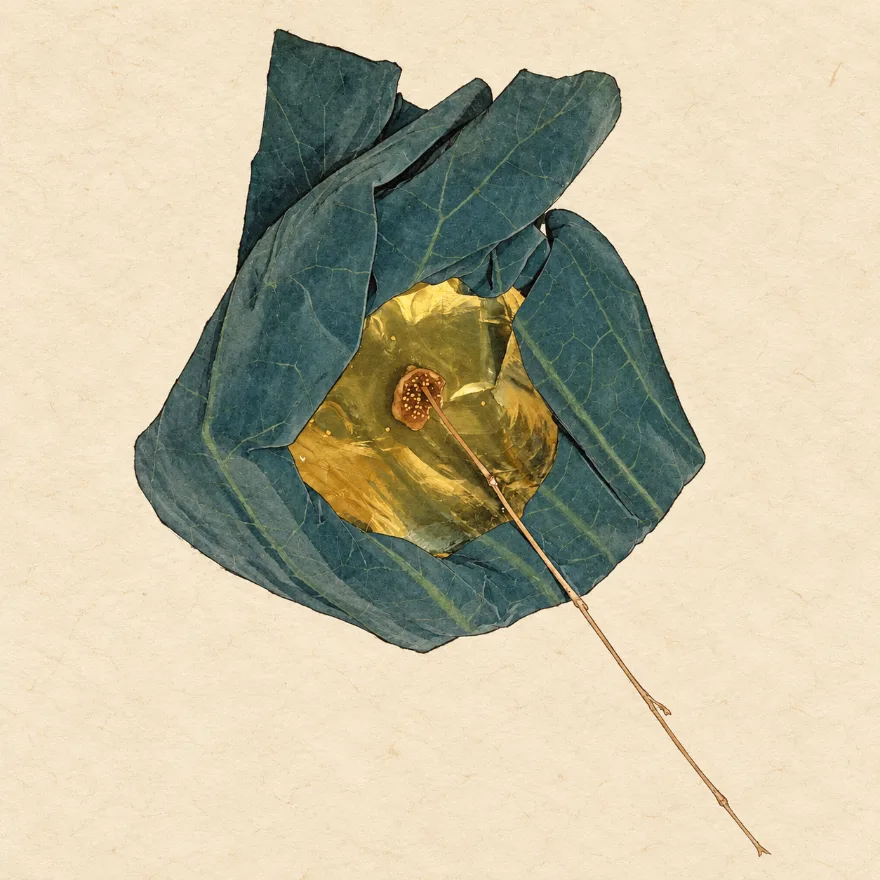
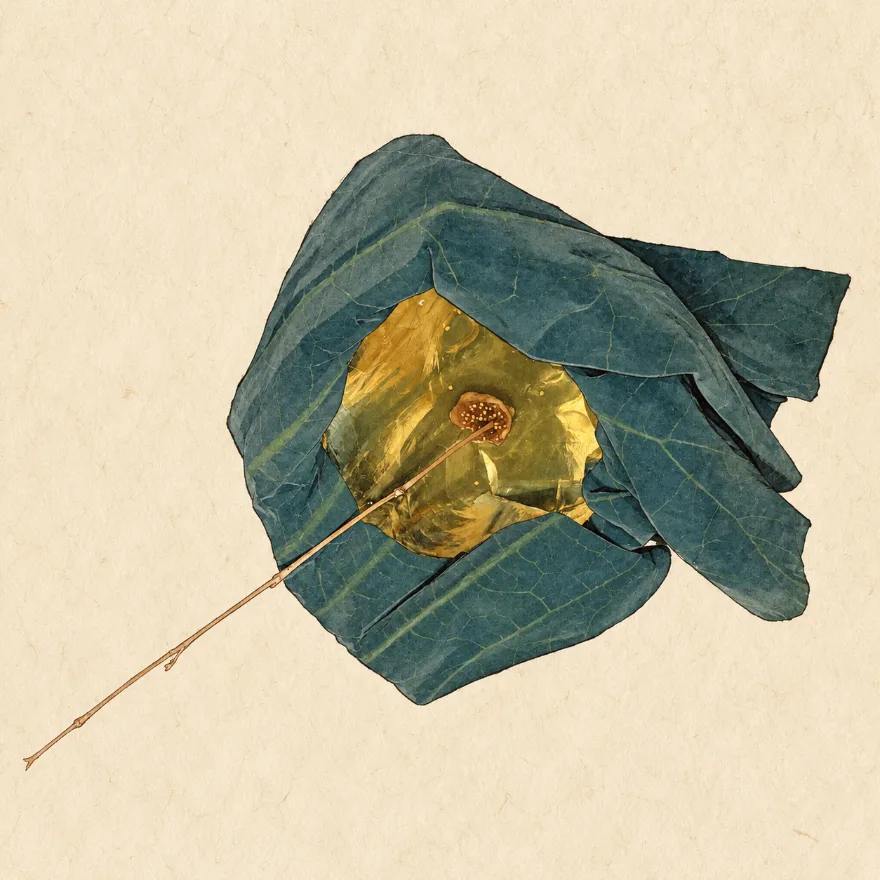
크리켓 메뉴: 칵테일 Boksunga Crush 추가(그림·4개국어), 과하주 그림 90도 회전

diff --git a/public/cricket/index.html b/public/cricket/index.html
@@ -783,6 +783,7 @@ const COCKTAILS=[
  {name:"Ube Alexander",tw:"Brandy Alexander twist",desc:"고구마 소주, 우베 막걸리, 스모키 솔트, 라임",link:null},
  {name:"Sujeonggwa",tw:"",desc:"문배술, 수제 수정과, 감 셔벗, 수수 뻥튀기",link:"moonbaesool"},
  {name:"Yakjutini",tw:"Reverse Martini twist",desc:"약주, 한국 화이트와인, 한국 진, 제철 장아찌",link:"yakju"},
+ {name:"Boksunga Crush",tw:"",desc:"복분자 스피릿, 복숭아 봉봉, 망고, 한국 복숭아 리큐르",link:null},
 ];
 const FOODS=[
  {name:"Namul Jeon",p:"23,000",desc:"나물과 오징어·새우로 부친 한국식 전"},
@@ -938,8 +939,8 @@ function renderFoods(){
 
 /* ===== 메뉴 그림 뷰어 (실제 사진을 동양화로 옮긴 그림) =====
    dish/<id>.webp(큰 그림) · dish/<id>_t.webp(목록 썸네일). 그림이 있는 메뉴만 DISH에 등록. */
-const DISH=new Set(["andong-mule","nokcha-gin-tonic","hyunmi-and-corn","maesil-and-cucumber","gwahaju-on-the-lotus-leaf","yin-and-yang","tomato-and-spicy","mushroom-and-coffee","ube-alexander","sujeonggwa","yakjutini","namul-jeon","acorn-rabokki","golbengi-somyeon","bekhap-sujebi","kimchi-gambas","mu-jorim","dombegogi","mungtigi","makgeolli-bingsu"]);
-const DISH_BG={"andong-mule":"#f7e7cb","acorn-rabokki":"#f2e0c4","bekhap-sujebi":"#ebd1ab","dombegogi":"#f3ddb9","golbengi-somyeon":"#f6ead4","gwahaju-on-the-lotus-leaf":"#f3e2c7","hyunmi-and-corn":"#eecea4","kimchi-gambas":"#f3deb9","maesil-and-cucumber":"#f1ddc0","makgeolli-bingsu":"#f6e3c5","mu-jorim":"#f3ddbc","mungtigi":"#f4ddb5","mushroom-and-coffee":"#f2ddbc","namul-jeon":"#eed9b8","nokcha-gin-tonic":"#f3ddba","sujeonggwa":"#f1dfc1","tomato-and-spicy":"#f6e5c8","ube-alexander":"#f7e3c4","yakjutini":"#f4ddb8","yin-and-yang":"#f2e1c1"};   // 그림별 한지 바탕색(자동 추출)
+const DISH=new Set(["andong-mule","nokcha-gin-tonic","hyunmi-and-corn","maesil-and-cucumber","gwahaju-on-the-lotus-leaf","yin-and-yang","tomato-and-spicy","mushroom-and-coffee","ube-alexander","sujeonggwa","yakjutini","boksunga-crush","namul-jeon","acorn-rabokki","golbengi-somyeon","bekhap-sujebi","kimchi-gambas","mu-jorim","dombegogi","mungtigi","makgeolli-bingsu"]);
+const DISH_BG={"andong-mule":"#f7e7cb","acorn-rabokki":"#f2e0c4","bekhap-sujebi":"#ebd1ab","boksunga-crush":"#f1ddbb","dombegogi":"#f3ddb9","golbengi-somyeon":"#f6ead4","gwahaju-on-the-lotus-leaf":"#f3e2c7","hyunmi-and-corn":"#eecea4","kimchi-gambas":"#f3deb9","maesil-and-cucumber":"#f1ddc0","makgeolli-bingsu":"#f6e3c5","mu-jorim":"#f3ddbc","mungtigi":"#f4ddb5","mushroom-and-coffee":"#f2ddbc","namul-jeon":"#eed9b8","nokcha-gin-tonic":"#f3ddba","sujeonggwa":"#f1dfc1","tomato-and-spicy":"#f6e5c8","ube-alexander":"#f7e3c4","yakjutini":"#f4ddb8","yin-and-yang":"#f2e1c1"};   // 그림별 한지 바탕색(자동 추출)
 function dishId(n){return String(n).toLowerCase().replace(/\s*&\s*/g,"-and-").replace(/\s+/g,"-");}
 function dishAttr(n){const id=dishId(n);return DISH.has(id)?`class="item-c has-dish" onclick="openDish('${id}',event)"`:`class="item-c no-dish"`;}
 function dishThumb(n){const id=dishId(n);

diff --git a/public/cricket_preview/index.html b/public/cricket_preview/index.html
@@ -783,6 +783,7 @@ const COCKTAILS=[
  {name:"Ube Alexander",tw:"Brandy Alexander twist",desc:"고구마 소주, 우베 막걸리, 스모키 솔트, 라임",link:null},
  {name:"Sujeonggwa",tw:"",desc:"문배술, 수제 수정과, 감 셔벗, 수수 뻥튀기",link:"moonbaesool"},
  {name:"Yakjutini",tw:"Reverse Martini twist",desc:"약주, 한국 화이트와인, 한국 진, 제철 장아찌",link:"yakju"},
+ {name:"Boksunga Crush",tw:"",desc:"복분자 스피릿, 복숭아 봉봉, 망고, 한국 복숭아 리큐르",link:null},
 ];
 const FOODS=[
  {name:"Namul Jeon",p:"23,000",desc:"나물과 오징어·새우로 부친 한국식 전"},
@@ -938,8 +939,8 @@ function renderFoods(){
 
 /* ===== 메뉴 그림 뷰어 (실제 사진을 동양화로 옮긴 그림) =====
    dish/<id>.webp(큰 그림) · dish/<id>_t.webp(목록 썸네일). 그림이 있는 메뉴만 DISH에 등록. */
-const DISH=new Set(["andong-mule","nokcha-gin-tonic","hyunmi-and-corn","maesil-and-cucumber","gwahaju-on-the-lotus-leaf","yin-and-yang","tomato-and-spicy","mushroom-and-coffee","ube-alexander","sujeonggwa","yakjutini","namul-jeon","acorn-rabokki","golbengi-somyeon","bekhap-sujebi","kimchi-gambas","mu-jorim","dombegogi","mungtigi","makgeolli-bingsu"]);
-const DISH_BG={"andong-mule":"#f7e7cb","acorn-rabokki":"#f2e0c4","bekhap-sujebi":"#ebd1ab","dombegogi":"#f3ddb9","golbengi-somyeon":"#f6ead4","gwahaju-on-the-lotus-leaf":"#f3e2c7","hyunmi-and-corn":"#eecea4","kimchi-gambas":"#f3deb9","maesil-and-cucumber":"#f1ddc0","makgeolli-bingsu":"#f6e3c5","mu-jorim":"#f3ddbc","mungtigi":"#f4ddb5","mushroom-and-coffee":"#f2ddbc","namul-jeon":"#eed9b8","nokcha-gin-tonic":"#f3ddba","sujeonggwa":"#f1dfc1","tomato-and-spicy":"#f6e5c8","ube-alexander":"#f7e3c4","yakjutini":"#f4ddb8","yin-and-yang":"#f2e1c1"};   // 그림별 한지 바탕색(자동 추출)
+const DISH=new Set(["andong-mule","nokcha-gin-tonic","hyunmi-and-corn","maesil-and-cucumber","gwahaju-on-the-lotus-leaf","yin-and-yang","tomato-and-spicy","mushroom-and-coffee","ube-alexander","sujeonggwa","yakjutini","boksunga-crush","namul-jeon","acorn-rabokki","golbengi-somyeon","bekhap-sujebi","kimchi-gambas","mu-jorim","dombegogi","mungtigi","makgeolli-bingsu"]);
+const DISH_BG={"andong-mule":"#f7e7cb","acorn-rabokki":"#f2e0c4","bekhap-sujebi":"#ebd1ab","boksunga-crush":"#f1ddbb","dombegogi":"#f3ddb9","golbengi-somyeon":"#f6ead4","gwahaju-on-the-lotus-leaf":"#f3e2c7","hyunmi-and-corn":"#eecea4","kimchi-gambas":"#f3deb9","maesil-and-cucumber":"#f1ddc0","makgeolli-bingsu":"#f6e3c5","mu-jorim":"#f3ddbc","mungtigi":"#f4ddb5","mushroom-and-coffee":"#f2ddbc","namul-jeon":"#eed9b8","nokcha-gin-tonic":"#f3ddba","sujeonggwa":"#f1dfc1","tomato-and-spicy":"#f6e5c8","ube-alexander":"#f7e3c4","yakjutini":"#f4ddb8","yin-and-yang":"#f2e1c1"};   // 그림별 한지 바탕색(자동 추출)
 function dishId(n){return String(n).toLowerCase().replace(/\s*&\s*/g,"-and-").replace(/\s+/g,"-");}
 function dishAttr(n){const id=dishId(n);return DISH.has(id)?`class="item-c has-dish" onclick="openDish('${id}',event)"`:`class="item-c no-dish"`;}
 function dishThumb(n){const id=dishId(n);

diff --git a/public/cricket/i18n_ja.js b/public/cricket/i18n_ja.js
@@ -61,6 +61,7 @@ window.I18N_JA={"ui": {
 "dv.hint":"左右にスワイプ · どこでもタップで閉じます",
 "ck.Sujeonggwa":"ムンベスル、自家製スジョングァ、柿シャーベット、ソルガムポップ",
 "ck.Yakjutini":"薬酒、韓国白ワイン、韓国ジン、旬のチャンアチ(漬物)",
+"ck.Boksunga Crush":"ボクブンジャ(覆盆子)スピリッツ、桃ボンボン、マンゴー、韓国産桃リキュール",
 "ck.Andong Mule":"アンドン(Andong)焼酎ベース、自家製の梨・生姜ビア",
 "ck.Nokcha Gin Tonic":"韓国ジン、自家製 緑茶トニックウォーター",
 "ck.Hyunmi & Corn":"焼酎、とうもろこしのひげ・玄米ソーダ、自家製コーンクリームタルト",

diff --git a/public/cricket_preview/i18n_ja.js b/public/cricket_preview/i18n_ja.js
@@ -61,6 +61,7 @@ window.I18N_JA={"ui": {
 "dv.hint":"左右にスワイプ · どこでもタップで閉じます",
 "ck.Sujeonggwa":"ムンベスル、自家製スジョングァ、柿シャーベット、ソルガムポップ",
 "ck.Yakjutini":"薬酒、韓国白ワイン、韓国ジン、旬のチャンアチ(漬物)",
+"ck.Boksunga Crush":"ボクブンジャ(覆盆子)スピリッツ、桃ボンボン、マンゴー、韓国産桃リキュール",
 "ck.Andong Mule":"アンドン(Andong)焼酎ベース、自家製の梨・生姜ビア",
 "ck.Nokcha Gin Tonic":"韓国ジン、自家製 緑茶トニックウォーター",
 "ck.Hyunmi & Corn":"焼酎、とうもろこしのひげ・玄米ソーダ、自家製コーンクリームタルト",

diff --git a/public/cricket/i18n_ko.js b/public/cricket/i18n_ko.js
@@ -81,6 +81,7 @@ window.I18N_KO = {
 "dv.hint":"좌우로 넘겨 보세요 · 아무 곳이나 누르면 닫힙니다",
 "ck.Sujeonggwa":"문배술, 수제 수정과, 감 셔벗, 수수 뻥튀기",
 "ck.Yakjutini":"약주, 한국 화이트와인, 한국 진, 제철 장아찌",
+"ck.Boksunga Crush":"복분자 스피릿, 복숭아 봉봉, 망고, 한국 복숭아 리큐르",
 "ck.Andong Mule":"안동소주 베이스, 수제 배·생강 비어",
 "ck.Nokcha Gin Tonic":"한국 진, 수제 녹차 토닉워터",
 "ck.Hyunmi & Corn":"소주, 옥수수수염·현미 소다, 수제 옥수수 크림 타르트",

diff --git a/public/cricket_preview/i18n_ko.js b/public/cricket_preview/i18n_ko.js
@@ -81,6 +81,7 @@ window.I18N_KO = {
 "dv.hint":"좌우로 넘겨 보세요 · 아무 곳이나 누르면 닫힙니다",
 "ck.Sujeonggwa":"문배술, 수제 수정과, 감 셔벗, 수수 뻥튀기",
 "ck.Yakjutini":"약주, 한국 화이트와인, 한국 진, 제철 장아찌",
+"ck.Boksunga Crush":"복분자 스피릿, 복숭아 봉봉, 망고, 한국 복숭아 리큐르",
 "ck.Andong Mule":"안동소주 베이스, 수제 배·생강 비어",
 "ck.Nokcha Gin Tonic":"한국 진, 수제 녹차 토닉워터",
 "ck.Hyunmi & Corn":"소주, 옥수수수염·현미 소다, 수제 옥수수 크림 타르트",

diff --git a/public/cricket/i18n_en.js b/public/cricket/i18n_en.js
@@ -80,6 +80,7 @@ window.I18N_EN={"ui":{
 "dv.hint":"Swipe to browse · tap anywhere to close",
 "ck.Sujeonggwa":"Moonbaesool, home-made sujeonggwa, persimmon sorbet, sorghum pop",
 "ck.Yakjutini":"Yakju, Korean white wine, Korean gin, seasonal jang-ajji",
+"ck.Boksunga Crush":"Bokbunja spirit, peach bongbong, mango, Korean peach liqueur",
 "ck.Andong Mule":"Andong soju base, house pear-and-ginger beer",
 "ck.Nokcha Gin Tonic":"Korean gin, house green tea tonic water",
 "ck.Hyunmi & Corn":"Soju, corn-silk and brown-rice soda, house corn cream tart",

diff --git a/public/cricket_preview/i18n_en.js b/public/cricket_preview/i18n_en.js
@@ -80,6 +80,7 @@ window.I18N_EN={"ui":{
 "dv.hint":"Swipe to browse · tap anywhere to close",
 "ck.Sujeonggwa":"Moonbaesool, home-made sujeonggwa, persimmon sorbet, sorghum pop",
 "ck.Yakjutini":"Yakju, Korean white wine, Korean gin, seasonal jang-ajji",
+"ck.Boksunga Crush":"Bokbunja spirit, peach bongbong, mango, Korean peach liqueur",
 "ck.Andong Mule":"Andong soju base, house pear-and-ginger beer",
 "ck.Nokcha Gin Tonic":"Korean gin, house green tea tonic water",
 "ck.Hyunmi & Corn":"Soju, corn-silk and brown-rice soda, house corn cream tart",

diff --git a/public/cricket/i18n_zh.js b/public/cricket/i18n_zh.js
@@ -61,6 +61,7 @@ window.I18N_ZH={"ui": {
 "dv.hint":"左右滑动浏览 · 点击任意处关闭",
 "ck.Sujeonggwa":"文杯酒、自制水正果、柿子雪葩、高粱爆米花",
 "ck.Yakjutini":"药酒、韩国白葡萄酒、韩国金酒、当季酱菜",
+"ck.Boksunga Crush":"覆盆子烈酒、桃子蹦蹦饮、芒果、韩国桃子利口酒",
 "ck.Andong Mule":"安东烧酒为基、手工梨·姜啤",
 "ck.Nokcha Gin Tonic":"韩国琴酒、手工绿茶汤力水",
 "ck.Hyunmi & Corn":"烧酒、玉米须·糙米苏打、手工玉米奶油塔",

diff --git a/public/cricket_preview/i18n_zh.js b/public/cricket_preview/i18n_zh.js
@@ -61,6 +61,7 @@ window.I18N_ZH={"ui": {
 "dv.hint":"左右滑动浏览 · 点击任意处关闭",
 "ck.Sujeonggwa":"文杯酒、自制水正果、柿子雪葩、高粱爆米花",
 "ck.Yakjutini":"药酒、韩国白葡萄酒、韩国金酒、当季酱菜",
+"ck.Boksunga Crush":"覆盆子烈酒、桃子蹦蹦饮、芒果、韩国桃子利口酒",
 "ck.Andong Mule":"安东烧酒为基、手工梨·姜啤",
 "ck.Nokcha Gin Tonic":"韩国琴酒、手工绿茶汤力水",
 "ck.Hyunmi & Corn":"烧酒、玉米须·糙米苏打、手工玉米奶油塔",
